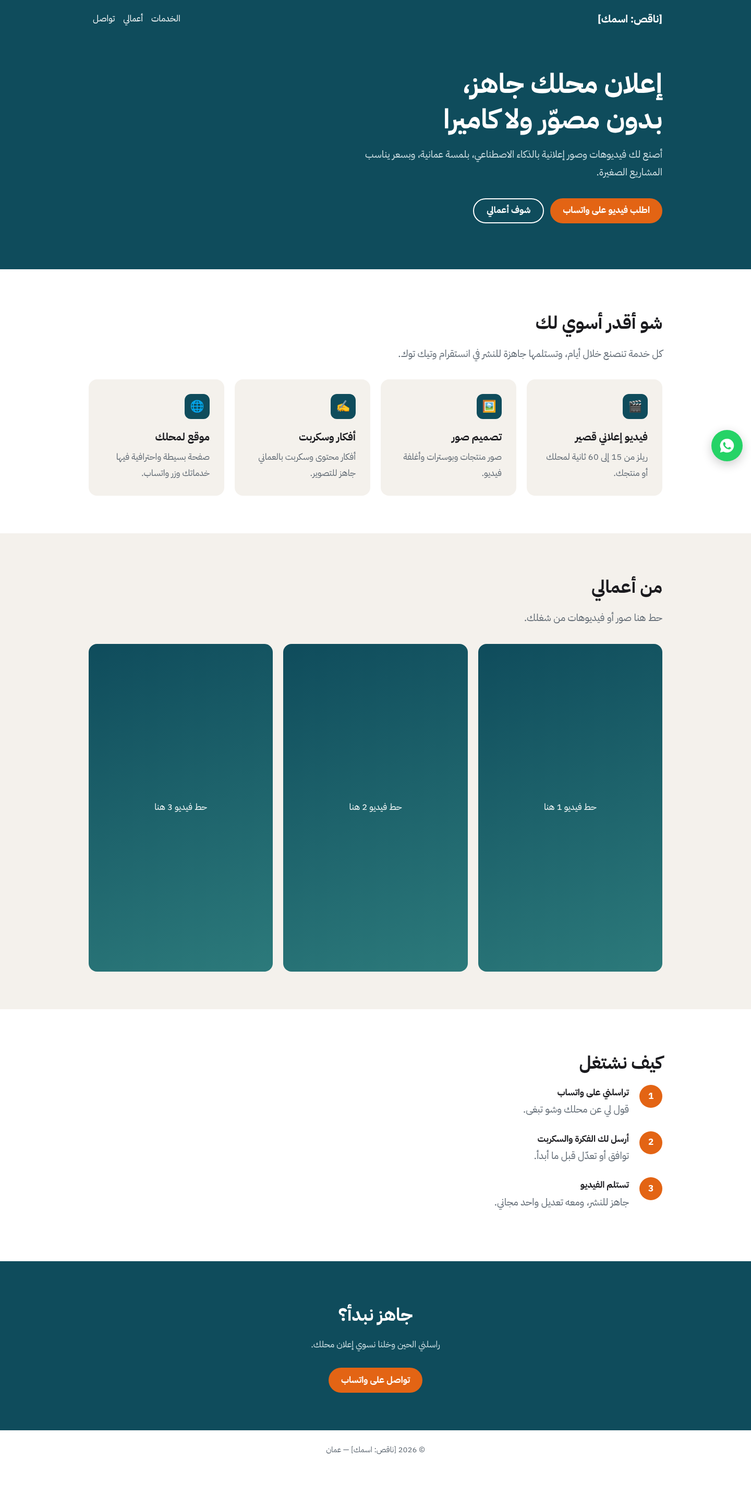
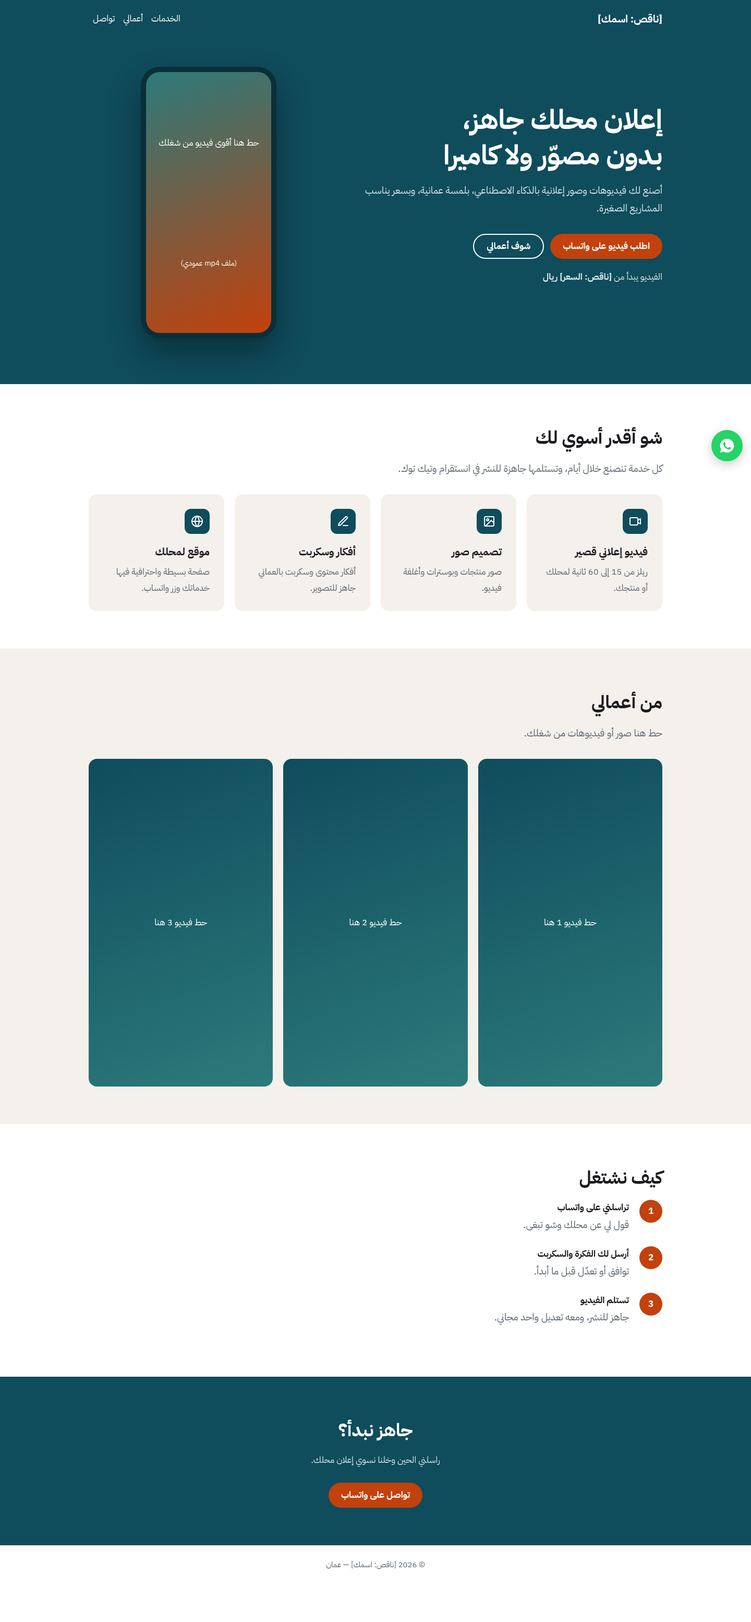
Raise website skills to a professional standard
Add contrast, emoji-icon and hover/focus checks plus a desktop
first-screen shot to the checker; add 'proof before words', button
contrast, SVG icons and no-invented-content rules to the builder.

Claude-Session: https://claude.ai/code/session_01UbFk1DgyVxEdd32y2yLQqY

Changed region(s): [[0.0, 0.0, 1.0, 0.4675], [0.0, 0.6233, 1.0, 0.9661], [0.5, 0.0935, 0.5312, 0.1247]]

diff --git a/.claude/skill-tests/portfolio/index.html b/.claude/skill-tests/portfolio/index.html
@@ -12,7 +12,7 @@
   /* الألوان: غيّرها من هنا بس */
   :root {
     --main: #0f4c5c;      /* أزرق بحري */
-    --accent: #e36414;    /* برتقالي للأزرار */
+    --accent: #c2410c;    /* برتقالي غامق للأزرار (تباين 5.2 مع الأبيض) */
     --ink: #1b1b1f;       /* لون النص */
     --muted: #5c6670;     /* نص ثانوي */
     --soft: #f4f1ec;      /* خلفية فاتحة */
@@ -28,6 +28,9 @@
   h2 { font-size: clamp(24px, 4vw, 34px); margin-block-end: 12px; }
   .lead { color: var(--muted); font-size: 19px; max-width: 60ch; }
   .btn { display: inline-flex; align-items: center; gap: 8px; min-height: 48px; padding-inline: 24px; border-radius: 999px; background: var(--accent); color: var(--white); font-weight: 700; text-decoration: none; }
+  .btn { transition: transform .15s, filter .15s; }
+  .btn:hover { filter: brightness(1.08); transform: translateY(-2px); }
+  a:focus-visible { outline: 3px solid #fbbf24; outline-offset: 3px; }
   .btn.ghost { background: transparent; color: var(--main); border: 2px solid var(--main); }
 
   /* البداية */
@@ -38,11 +41,17 @@
   .hero { padding-block: 56px 88px; }
   .hero p { color: #d5e4e8; margin-block: 16px 32px; font-size: 19px; max-width: 55ch; }
   .hero .btn.ghost { color: var(--white); border-color: var(--white); }
+  .hero { display: grid; gap: 40px; align-items: center; }
+  @media (min-width: 900px) { .hero { grid-template-columns: 1.3fr 1fr; } }
+  .price { margin-block-start: 20px !important; font-size: 17px !important; }
+  .phone { justify-self: center; width: min(260px, 70%); aspect-ratio: 9 / 18; border: 10px solid #0a2f39; border-radius: 36px; background: #0a2f39; box-shadow: 0 30px 60px rgb(0 0 0 / .35); }
+  .phone .screen { height: 100%; border-radius: 26px; background: linear-gradient(160deg, #2c7a7b, var(--accent)); display: grid; place-items: center; text-align: center; padding: 20px; color: #fff; }
   .actions { display: flex; flex-wrap: wrap; gap: 12px; }
 
   /* الخدمات */
   .grid { display: grid; gap: 20px; grid-template-columns: repeat(auto-fit, minmax(240px, 1fr)); margin-block-start: 32px; }
   .card { background: var(--soft); border-radius: var(--radius); padding: 28px; }
+  .card .icon svg { width: 24px; height: 24px; }
   .card .icon { width: 48px; height: 48px; border-radius: 12px; background: var(--main); color: var(--white); display: grid; place-items: center; font-size: 22px; margin-block-end: 16px; }
   .card h3 { font-size: 20px; margin-block-end: 6px; }
   .card p { color: var(--muted); }
@@ -82,11 +91,17 @@
       <span class="links"><a href="#services">الخدمات</a><a href="#work">أعمالي</a><a href="#contact">تواصل</a></span>
     </nav>
     <div class="hero">
+      <div class="hero-text">
       <h1>إعلان محلك جاهز،<br>بدون مصوّر ولا كاميرا</h1>
       <p>أصنع لك فيديوهات وصور إعلانية بالذكاء الاصطناعي، بلمسة عمانية، وبسعر يناسب المشاريع الصغيرة.</p>
       <div class="actions">
         <a class="btn" href="https://wa.me/968[ناقص: رقمك]">اطلب فيديو على واتساب</a>
         <a class="btn ghost" href="#work">شوف أعمالي</a>
+      </div>
+      <p class="price">الفيديو يبدأ من <strong>[ناقص: السعر] ريال</strong></p>
+      </div>
+      <div class="phone" aria-label="عينة من شغلي">
+        <div class="screen">حط هنا أقوى فيديو من شغلك<br><small>(ملف mp4 عمودي)</small></div>
       </div>
     </div>
   </div>
@@ -98,10 +113,10 @@
       <h2>شو أقدر أسوي لك</h2>
       <p class="lead">كل خدمة تنصنع خلال أيام، وتستلمها جاهزة للنشر في انستقرام وتيك توك.</p>
       <div class="grid">
-        <article class="card"><div class="icon" aria-hidden="true">🎬</div><h3>فيديو إعلاني قصير</h3><p>ريلز من 15 إلى 60 ثانية لمحلك أو منتجك.</p></article>
-        <article class="card"><div class="icon" aria-hidden="true">🖼</div><h3>تصميم صور</h3><p>صور منتجات وبوسترات وأغلفة فيديو.</p></article>
-        <article class="card"><div class="icon" aria-hidden="true">✍</div><h3>أفكار وسكربت</h3><p>أفكار محتوى وسكربت بالعماني جاهز للتصوير.</p></article>
-        <article class="card"><div class="icon" aria-hidden="true">🌐</div><h3>موقع لمحلك</h3><p>صفحة بسيطة واحترافية فيها خدماتك وزر واتساب.</p></article>
+        <article class="card"><div class="icon"><svg viewBox="0 0 24 24" fill="none" stroke="currentColor" stroke-width="2" stroke-linecap="round" stroke-linejoin="round" aria-hidden="true"><rect x="2" y="5" width="15" height="14" rx="2"/><path d="m17 10 5-3v10l-5-3z"/></svg></div><h3>فيديو إعلاني قصير</h3><p>ريلز من 15 إلى 60 ثانية لمحلك أو منتجك.</p></article>
+        <article class="card"><div class="icon"><svg viewBox="0 0 24 24" fill="none" stroke="currentColor" stroke-width="2" stroke-linecap="round" stroke-linejoin="round" aria-hidden="true"><rect x="3" y="3" width="18" height="18" rx="2"/><circle cx="9" cy="9" r="2"/><path d="m21 15-5-5L5 21"/></svg></div><h3>تصميم صور</h3><p>صور منتجات وبوسترات وأغلفة فيديو.</p></article>
+        <article class="card"><div class="icon"><svg viewBox="0 0 24 24" fill="none" stroke="currentColor" stroke-width="2" stroke-linecap="round" stroke-linejoin="round" aria-hidden="true"><path d="M12 20h9"/><path d="M16.5 3.5a2.1 2.1 0 0 1 3 3L7 19l-4 1 1-4z"/></svg></div><h3>أفكار وسكربت</h3><p>أفكار محتوى وسكربت بالعماني جاهز للتصوير.</p></article>
+        <article class="card"><div class="icon"><svg viewBox="0 0 24 24" fill="none" stroke="currentColor" stroke-width="2" stroke-linecap="round" stroke-linejoin="round" aria-hidden="true"><circle cx="12" cy="12" r="10"/><path d="M2 12h20M12 2a15 15 0 0 1 0 20M12 2a15 15 0 0 0 0 20"/></svg></div><h3>موقع لمحلك</h3><p>صفحة بسيطة واحترافية فيها خدماتك وزر واتساب.</p></article>
       </div>
     </div>
   </section>

diff --git a/.claude/skills/website-check/check.js b/.claude/skills/website-check/check.js
@@ -45,6 +45,25 @@ const fs = require('fs');
         links.map(a => decodeURIComponent(a.getAttribute('href'))).join(' ')).match(/\[ناقص[^\]]*\]/g) || [])],
       smallTargets: small.length,
       fontSize: parseFloat(getComputedStyle(document.body).fontSize),
+      emoji: [...document.querySelectorAll('.icon, [class*=icon]')].filter(el => /\p{Extended_Pictographic}/u.test(el.textContent)).length,
+      noHover: !([...document.styleSheets].some(sh => { try { return [...sh.cssRules].some(r => /:hover|:focus-visible/.test(r.selectorText || '')); } catch { return false; } })),
+      lowContrast: (() => {
+        // تباين النص مع الخلفية (المطلوب 4.5، أو 3 للنص الكبير)
+        const rgb = c => (c.match(/[\d.]+/g) || []).map(Number);
+        const lum = ([r, g, b]) => { const f = v => { v /= 255; return v <= 0.03928 ? v / 12.92 : ((v + 0.055) / 1.055) ** 2.4; }; return 0.2126 * f(r) + 0.7152 * f(g) + 0.0722 * f(b); };
+        const bgOf = el => { for (let e = el; e; e = e.parentElement) { const cs = getComputedStyle(e); if (cs.backgroundImage !== 'none') return null; const c = rgb(cs.backgroundColor); if (c.length === 3 || c[3] > 0) return c.slice(0, 3); } return [255, 255, 255]; };
+        const bad = [];
+        for (const el of document.querySelectorAll('body *')) {
+          if (![...el.childNodes].some(n => n.nodeType === 3 && n.textContent.trim())) continue;
+          const cs = getComputedStyle(el); const bg = bgOf(el); if (!bg) continue;
+          const a = lum(rgb(cs.color).slice(0, 3)), b = lum(bg);
+          const ratio = (Math.max(a, b) + 0.05) / (Math.min(a, b) + 0.05);
+          const size = parseFloat(cs.fontSize), bold = parseInt(cs.fontWeight) >= 700;
+          const need = (size >= 24 || (bold && size >= 18.66)) ? 3 : 4.5;
+          if (ratio < need) bad.push(`"${el.textContent.trim().slice(0, 25)}" ${ratio.toFixed(1)} من ${need}`);
+        }
+        return bad;
+      })(),
     };
   });
 
@@ -63,17 +82,21 @@ const fs = require('fs');
     badWa.length ? `${badWa.length} رابط خربان: ${badWa[0]}` : '');
   add('حجم النص 16px أو أكثر', info.fontSize >= 16, `${info.fontSize}px`);
   add('الأزرار كبيرة كفاية للإصبع (40px)', info.smallTargets === 0, info.smallTargets ? `${info.smallTargets} زر صغير` : '');
+  add('تباين النص كافي (يتقرا في الشمس)', info.lowContrast.length === 0, info.lowContrast.slice(0, 3).join(' | '));
+  add('الأيقونات مو إيموجي', info.emoji === 0, info.emoji ? `${info.emoji} أيقونة إيموجي` : '');
+  add('الأزرار تتغير لما تمر عليها أو توصل لها بالكيبورد', !info.noHover);
   add('ما فيه معلومات ناقصة', info.missing.length === 0, info.missing.join('، '));
   add('ما فيه أخطاء في التحميل', errors.length === 0, errors.slice(0, 3).join(' | '));
 
   // كمبيوتر
   const desk = await browser.newPage({ viewport: { width: 1440, height: 900 }, deviceScaleFactor: 1 });
   await desk.goto(url, { waitUntil: 'networkidle' });
+  await desk.screenshot({ path: path.join(outDir, 'desktop-first-screen.png') });
   await desk.screenshot({ path: path.join(outDir, 'desktop.png'), fullPage: true });
   await browser.close();
 
   for (const r of results) console.log(`${r.ok ? '✅' : '❌'} ${r.name}${r.note ? ' — ' + r.note : ''}`);
   const bad = results.filter(r => !r.ok).length;
   console.log(`\n${bad === 0 ? 'كل الفحوصات التلقائية نجحت.' : bad + ' فحص فيه مشكلة.'} الصور في: ${path.resolve(outDir)}`);
-  console.log('تذكير: شوف mobile-first-screen.png وmobile.png وdesktop.png بعينك قبل ما تقول جاهز.');
+  console.log('تذكير: شوف الصور الأربع بعينك (أول شاشة + الصفحة كاملة، للجوال والكمبيوتر) قبل ما تقول جاهز.');
 })();

diff --git a/.claude/skills/arabic-website/SKILL.md b/.claude/skills/arabic-website/SKILL.md
@@ -23,11 +23,18 @@ description: بناء موقع عربي احترافي (من اليمين للي
 
 ## قواعد الاحتراف
 
+**أهم قاعدة: الدليل قبل الكلام.** لو الموقع يبيع خدمة (فيديو، تصميم، أكل)، لازم عينة حقيقية (صورة أو فيديو) تبان في أول شاشة. في الكمبيوتر: النص على جهة والعينة على الجهة الثانية. في الجوال: العينة تحت الأزرار مباشرة.
+
+
 - **عربي صح**: `<html lang="ar" dir="rtl">`. استعمل `margin-inline-start` بدل `margin-left` عشان الاتجاه ما يخرب.
 - **الجوال أول**: صمم لشاشة عرضها 375px، وبعدين كبّر. أغلب زوار المحلات في عمان من الجوال.
 - **الخط**: خط عربي واحد، مثل `IBM Plex Sans Arabic` أو `Tajawal` أو `Cairo`. حجم النص 17px على الأقل، وارتفاع السطر 1.8.
 - **الألوان في متغيرات** `:root` (يعني تكتب اللون مرة وحدة فوق، وتغيره من مكان واحد). والتباين بين النص والخلفية واضح.
 - **زر واتساب** واضح وثابت في الجوال. هذا أهم زر لمحل في عمان. الرابط: `https://wa.me/968XXXXXXXX`.
+- **تباين الأزرار**: نص أبيض يحتاج خلفية غامقة كفاية (تباين 4.5 على الأقل). البرتقالي الفاتح `#e36414` ما يكفي، والأغمق `#c2410c` يكفي. افحص كل لون قبل ما تعتمده.
+- **الأزرار تتفاعل**: `:hover` تغيير خفيف، و`:focus-visible` إطار واضح للي يستعمل الكيبورد.
+- **أيقونات SVG، مو إيموجي**. الإيموجي يتغير شكله من جوال لجوال ويبين الموقع رخيص.
+- **لا تخترع** آراء عملاء، ولا أسعار، ولا أرقام زي "100 عميل سعيد". لو ما عندك، حط `[ناقص: ...]` أو احذف القسم.
 - **مسافات كريمة**: 64px على الأقل بين الأقسام في الكمبيوتر. المسافات الفاضية هي اللي تخلي الموقع يبان غالي.
 - **شبكة الصور والفيديوهات في الجوال**: عمودين على الأقل (`grid-template-columns: repeat(2, 1fr)`). خانة فيديو عمودي (9:16) بعرض الشاشة كله تطول وايد، والزائر يمل قبل ما يوصل التواصل.
 - **الصور**: `loading="lazy"` و`alt` بالعربي يوصف الصورة. ولو ما فيه صور، استعمل ألوان وأشكال بسيطة، أو اكتب: "حط صورتك هنا".

diff --git a/.claude/skills/website-check/SKILL.md b/.claude/skills/website-check/SKILL.md
@@ -11,8 +11,8 @@ description: فحص موقع جاهز قبل تسليمه للعميل أو نش
    ```bash
    node .claude/skills/website-check/check.js path/to/index.html OUTPUT_DIR
    ```
-   السكربت يطلع 3 صور: أول شاشة في الجوال (`mobile-first-screen.png`)، والجوال كامل (`mobile.png`)، والكمبيوتر (`desktop.png`). ويطلع معهم قائمة فحوصات تلقائية.
-2. **شوف الصور الثلاث بنفسك** (افتحهم بأداة Read). دوّر على: نص طالع برا الشاشة، أو أزرار مقلوبة، أو نص على خلفية ما يبان، أو قسم فاضي، أو **قسم طوله أكثر من شاشتين في الجوال**. الزر الثابت (مثل الواتساب) يطلع في نص صورة الصفحة الكاملة، وهذا عادي. مكانه الحقيقي تشوفه في `mobile-first-screen.png`.
+   السكربت يطلع 4 صور: أول شاشة في الجوال (`mobile-first-screen.png`)، والجوال كامل (`mobile.png`)، وأول شاشة في الكمبيوتر (`desktop-first-screen.png`)، والكمبيوتر كامل (`desktop.png`). ويطلع معهم قائمة فحوصات تلقائية.
+2. **شوف الصور الأربع بنفسك** (افتحهم بأداة Read). دوّر على: نص طالع برا الشاشة، أو أزرار مقلوبة، أو نص على خلفية ما يبان، أو قسم فاضي، أو **قسم طوله أكثر من شاشتين في الجوال**، أو **أول شاشة ما فيها عينة من الشغل**. الزر الثابت (مثل الواتساب) يطلع في نص صورة الصفحة الكاملة، وهذا عادي. مكانه الحقيقي تشوفه في `mobile-first-screen.png`.
 3. **اكتب التقرير** بهذا الشكل:
 
    | الفحص | النتيجة | لو فيه مشكلة: الحل |
@@ -24,7 +24,7 @@ description: فحص موقع جاهز قبل تسليمه للعميل أو نش
 
 ## القواعد
 
-- لا تقول "الموقع جاهز" إلا لو كل الفحوصات ✅ **وشفت الصور الثلاث بعينك**.
+- لا تقول "الموقع جاهز" إلا لو كل الفحوصات ✅ **وشفت الصور الأربع بعينك**.
 - الشرح بالعماني، وكل مصطلح ينشرح.
 - السكربت يفتح الموقع **في جهازك بس**. لا ترفع الموقع ولا الصور لأي مكان.
 

diff --git a/.claude/skills/arabic-website/CHANGELOG.md b/.claude/skills/arabic-website/CHANGELOG.md
@@ -6,3 +6,11 @@
 ## 2026-11-20 (بعد الاختبار)
 - **أضفت قاعدة: شبكة الصور والفيديوهات في الجوال تكون عمودين على الأقل.**
 - **السبب:** في اختبار موقع الأعمال، قسم "أعمالي" طلع طوله 3 شاشات في الجوال، لأن كل خانة فيديو عمودي أخذت عرض الشاشة كله. بعد القاعدة، طول الصفحة نزل من 4595 إلى 3355 بكسل.
+
+## 2026-11-20 (رفع المستوى بعد مراجعة تصميم احترافية)
+- **قاعدة جديدة، وهي الأهم: "الدليل قبل الكلام".** لازم عينة من الشغل تبان في أول شاشة. السبب: الموقع كان يبيع فيديو وما يوري ولا فيديو.
+- **تباين الأزرار 4.5 على الأقل.** السبب: البرتقالي `#e36414` مع الأبيض تباينه 3.4 بس.
+- **الأزرار تتفاعل** مع الماوس (`:hover`) والكيبورد (`:focus-visible`).
+- **أيقونات SVG بدل الإيموجي.**
+- **لا تخترع** آراء عملاء ولا أسعار ولا أرقام.
+- **client-brief.md:** أضفت أسئلة عن السعر، وعينات الشغل، وآراء العملاء.

diff --git a/.claude/skills/website-check/CHANGELOG.md b/.claude/skills/website-check/CHANGELOG.md
@@ -8,3 +8,8 @@
 - **check.js: فحص المعلومات الناقصة صار يشمل عنوان الصفحة والروابط**، مو بس النص اللي يبان.
 - **check.js: أضفت صورة `mobile-first-screen.png`.** السبب: الزر الثابت يطلع في نص صورة الصفحة الكاملة، فما كان واضح وين مكانه الحقيقي.
 - **SKILL.md: أضفت للفحص بالعين "قسم طوله أكثر من شاشتين في الجوال".**
+
+## 2026-11-20 (رفع المستوى بعد مراجعة تصميم احترافية)
+- **check.js: 3 فحوصات جديدة:** تباين النص (4.5 للنص العادي، و3 للكبير)، والأيقونات الإيموجي، والأزرار اللي ما تتفاعل مع الماوس والكيبورد. السبب: المراجعة لقت هذي المشاكل الثلاث، والسكربت القديم ما اكتشف ولا وحدة منهم.
+- **check.js: صورة `desktop-first-screen.png`.** السبب: اضطريت أصوّرها بيدي عشان أشوف أول شاشة في الكمبيوتر.
+- **SKILL.md: أضفت للفحص بالعين "أول شاشة ما فيها عينة من الشغل".**

diff --git a/.claude/skill-tests/RESULTS.md b/.claude/skill-tests/RESULTS.md
@@ -151,3 +151,15 @@
 - السكربت الحين يكتشف إن رابط الواتساب خربان.
 - قسم "أعمالي" صار عمودين، وطول الصفحة نزل من 4595 إلى 3355 بكسل.
 - الـ ❌ الباقيين صحيحين: الاسم والرقم ناقصين فعلًا، ويحتاجون منك.
+
+### الجولة الثالثة: مراجعة تصميم احترافية
+
+قيّمت الموقع بمعايير المصممين المحترفين (أول انطباع، والاستعمال، والترتيب، والتباين). لقيت 5 مشاكل، **والسكربت ما اكتشف ولا وحدة منهم**:
+- 🔴 الزر الأساسي تباينه 3.4، والمطلوب 4.5.
+- 🔴 ما فيه ولا عينة شغل في أول شاشة.
+- 🟡 الأيقونات إيموجي.
+- 🟡 ما فيه سعر.
+- 🟡 الأزرار ما تتغير لما تمر عليها.
+
+**التصحيح:** حطيت القواعد هذي في `arabic-website`، والفحوصات في `website-check`.
+**بعد إعادة البناء:** كل الفحوصات ✅، ما عدا المعلومات الناقصة (الاسم، والرقم، والسعر)، وهذي تحتاج منك.

diff --git a/.claude/skills/arabic-website/client-brief.md b/.claude/skills/arabic-website/client-brief.md
@@ -13,4 +13,7 @@
 | صور موجودة؟ (شعار، منتجات، أعمال) | |
 | ألوان يحبها، أو ألوان الشعار | |
 | موقع يعجبه (مثال) | |
+| السعر أو "يبدأ من" | |
+| عينات من الشغل (صور أو فيديو) | |
+| آراء عملاء حقيقية؟ | |
 | شو أهم شي يسويه الزائر؟ (يتصل، يطلب، يحجز) | |
